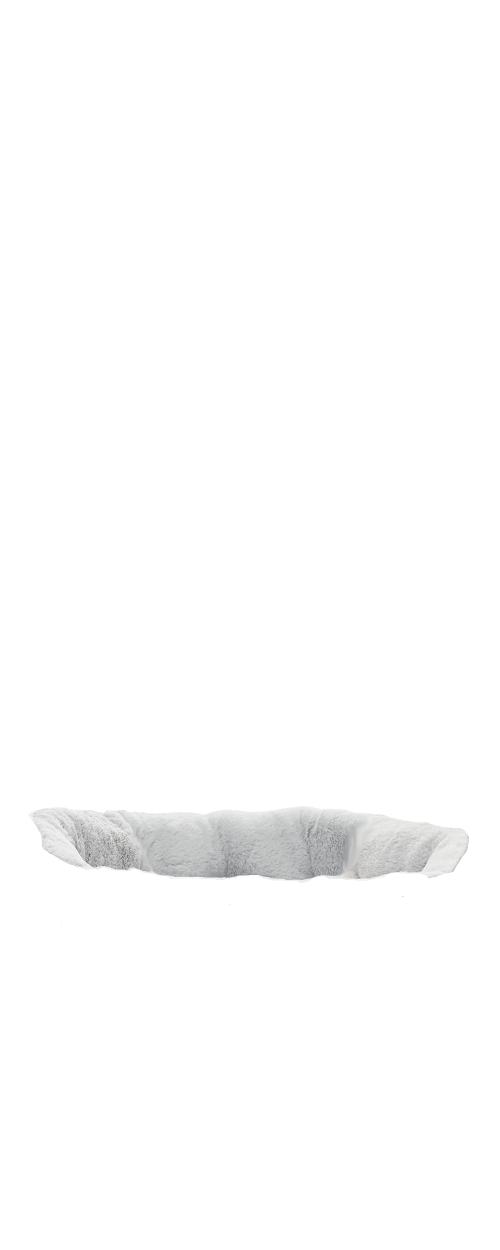
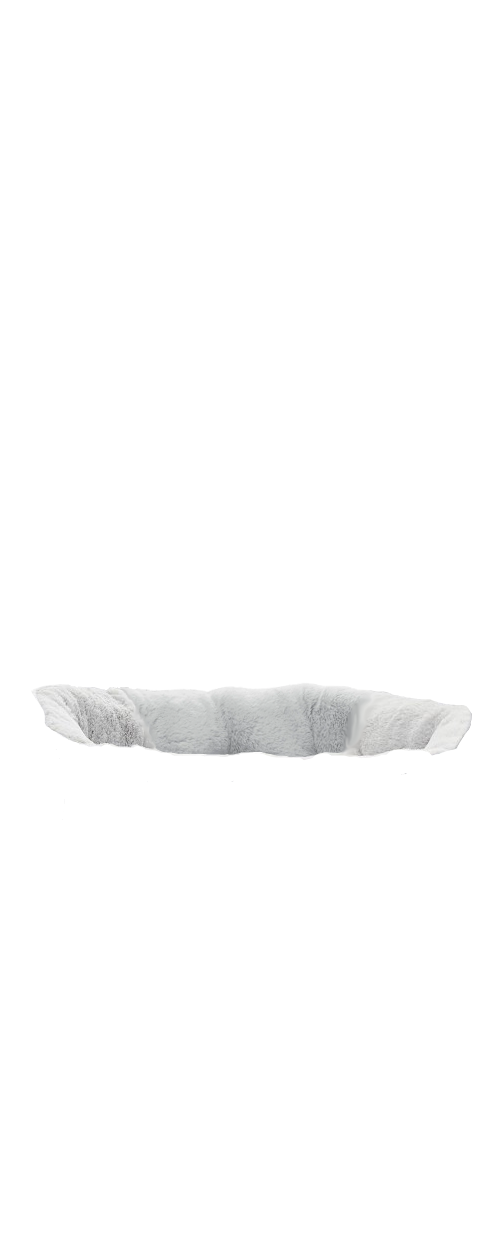
adjusting bed for all possitions
tried with another method, but offsetting the images worked best

Changed region(s): [[0.06, 0.5304, 0.96, 0.7176]]

diff --git a/BondageClub/Assets/Female3DCG/Female3DCG.js b/BondageClub/Assets/Female3DCG/Female3DCG.js
@@ -3617,7 +3617,8 @@ var AssetFemale3DCG = [
 				]
 			},
 			{ 
-				Name: "PetBed", Fetish: ["Pet"], Value: 50, Difficulty: -25, SelfBondage: 0, Time: 5, RemoveTime: 5, Effect: ["Freeze"], RemoveAtLogin: true, Prerequisite: ["NotSuspended", "NoFeetSpreader"], Hide: ["Shoes"], HideItem: ["ItemBootsPonyBoots", "ItemBootsBalletHeels", "ItemBootsBalletWedges", "ItemBootsThighHighLatexHeels"], Layer: [
+				Name: "PetBed", Fetish: ["Pet"], Value: 50, Difficulty: -25, SelfBondage: 0, Time: 5, RemoveTime: 5, Effect: ["Freeze"], RemoveAtLogin: true, Prerequisite: ["NotSuspended", "NoFeetSpreader"], Hide: ["Shoes"], HideItem: ["ItemBootsPonyBoots", "ItemBootsBalletHeels", "ItemBootsBalletWedges", "ItemBootsThighHighLatexHeels"], AllowPose: ["Kneel", "AllFours"], 
+				Layer: [
 					{ Name: "Lining", Priority: 1, AllowColorize: false},
 					{ Name: "Bed", AllowColorize: true}
 				],
